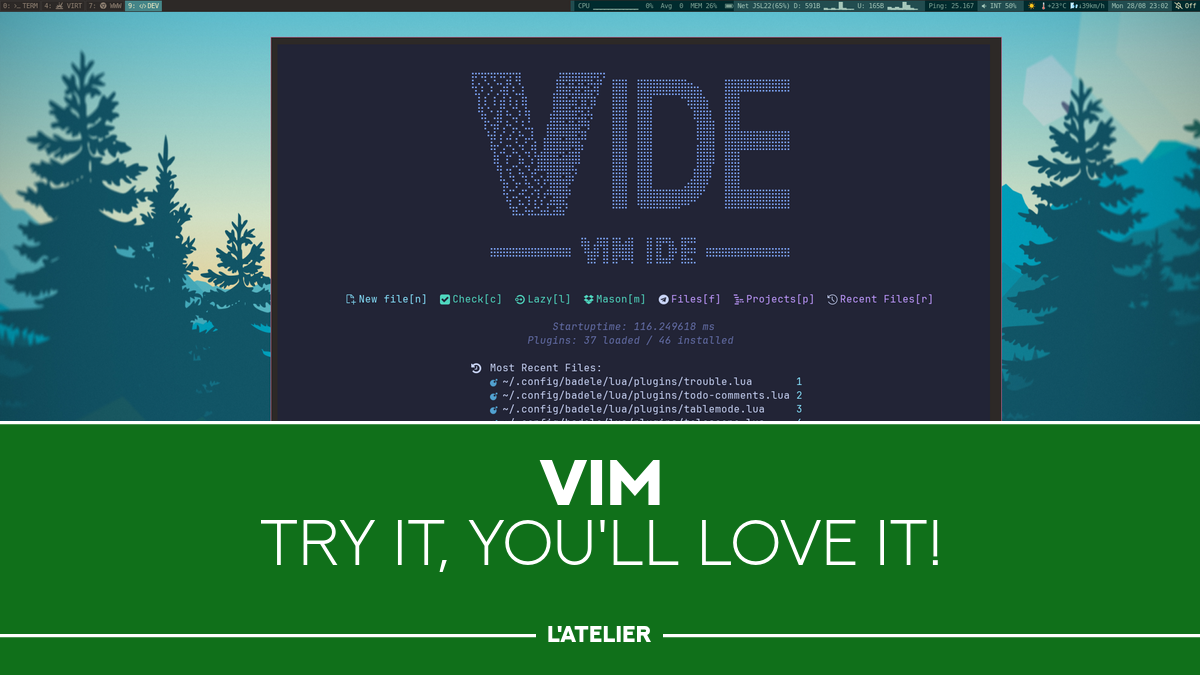
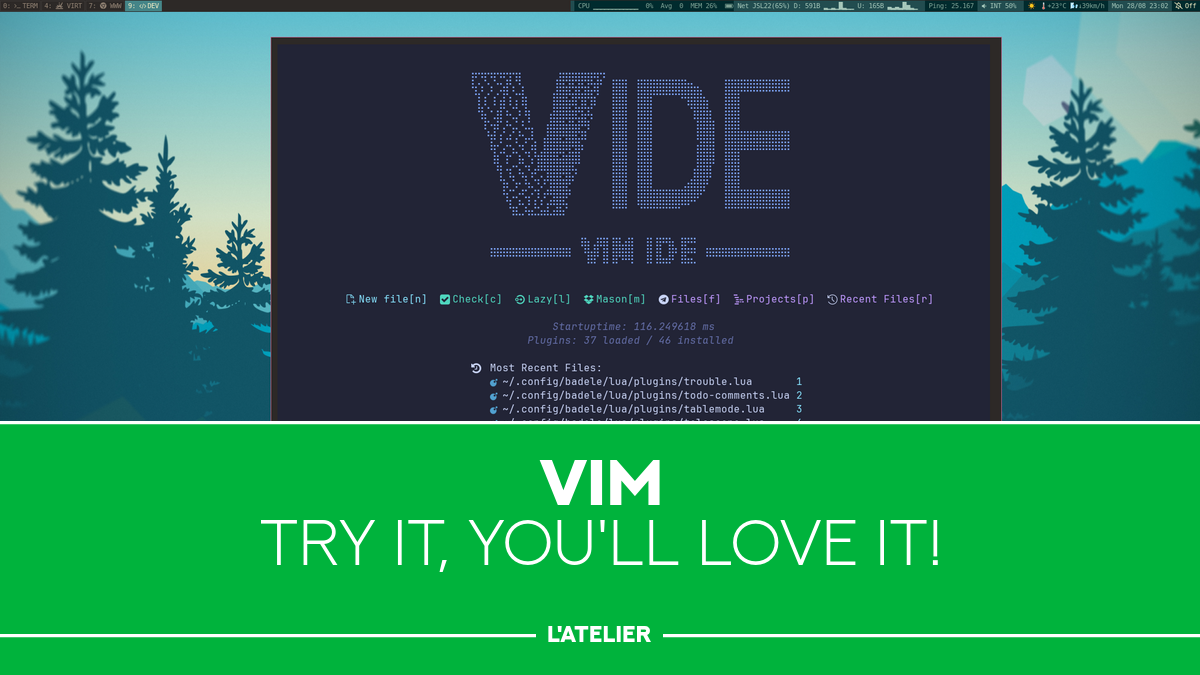
feat(profile): add tones-generator input and update bottom_title_block colors (#7)

diff --git a/profiles/bottom_title_block/README.md b/profiles/bottom_title_block/README.md
@@ -5,10 +5,10 @@
 ```bash
 ./generate_slide.sh --profile bottom_title_block \
   --set COMMAND1="https://raw.githubusercontent.com/badele/vide/main/doc/img/plug_dashboard.png -resize x675  -gravity northwest -geometry +0+0 -composite" \
-  --set COMMAND2="-fill '#10701a'  -draw 'rectangle 0,422 1200,675'" \
+  --set COMMAND2="-fill '#00B33C'  -draw 'rectangle 0,422 1200,675'" \
   --set TEXT5="VIM" \
-  --set TEXT6="Try it, you\'ll love it\!" --set TEXT99_BG="'#10701a'" \
-  --set TEXT99="L'atelier" --set TEXT99_EFFECTS_AFTER="-trim -bordercolor '#10701a' -border 12x0"
+  --set TEXT6="Try it, you\'ll love it\!" --set TEXT99_BG="'#00B33C'" \
+  --set TEXT99="L'atelier" --set TEXT99_EFFECTS_AFTER="-trim -bordercolor '#00B33C' -border 12x0"
 ```
 
 ![result](./sample2.png)
@@ -17,13 +17,11 @@
 ./generate_slide.sh --profile bottom_title_block \
   --set TEXT_FG="#000000" \
   --set COMMAND1="https://upload.wikimedia.org/wikipedia/commons/thumb/5/5f/Pain_au_chocolat_Luc_Viatour.jpg/1280px-Pain_au_chocolat_Luc_Viatour.jpg -resize 1200x  -gravity northwest -geometry +0+0 -composite" \
-  --set COMMAND3="-stroke '#000000' -strokewidth 3 -draw 'line 0,422 1200,422'" \
-  --set COMMAND4="-stroke '#000000' -strokewidth 3 -draw 'line 0,635 1200,635'" \
-  --set COMMAND2="-fill 'gold'  -draw 'rectangle 0,422 1200,675'" \
+  --set COMMAND2="-fill '#0077B3'  -draw 'rectangle 0,422 1200,675'" \
   --set TEXT5="pain au chococat ou chocolatine ?" \
   --set TEXT5_FONT_SIZE=52 \
-  --set TEXT6="Et vous comment l'appelez vous" --set TEXT99_BG="gold" \
-  --set TEXT99="Le bar du coin" --set TEXT99_EFFECTS_AFTER="-trim -bordercolor 'gold' -border 12x0"
+  --set TEXT6="Et vous comment l'appelez vous" --set TEXT99_BG="#0077B3" \
+  --set TEXT99="Le bar du coin" --set TEXT99_EFFECTS_AFTER="-trim -bordercolor '#0077B3' -border 12x0"
 ```
 
 ![result](./sample3.png)
@@ -31,9 +29,9 @@
 ```bash
 ./generate_slide.sh --profile bottom_title_block \
   --set COMMAND1="https://www.francebleu.fr/s3/cruiser-production-eu3/2025/08/910a2661-bdf1-4bc5-bb7c-214b50d1d2a3/1200x680_sc_loi-duplomb.jpg -resize 1200x  -gravity northwest -geometry +0+0 -composite" \
-  --set COMMAND2="-fill '#70101e'  -draw 'rectangle 0,422 1200,675'" \
+  --set COMMAND2="-fill '#B3001E'  -draw 'rectangle 0,422 1200,675'" \
   --set TEXT5="Pétition contre la loi Duplomb" \
   --set TEXT5_FONT_SIZE=52 \
-  --set TEXT6="Signez la pétition \!" --set TEXT99_BG="#70101e" \
-  --set TEXT99="La barricade" --set TEXT99_EFFECTS_AFTER="-trim -bordercolor '#70101e' -border 12x0"
+  --set TEXT6="Signez la pétition \!" --set TEXT99_BG="#B3001E" \
+  --set TEXT99="La barricade" --set TEXT99_EFFECTS_AFTER="-trim -bordercolor '#B3001E' -border 12x0"
 ```
